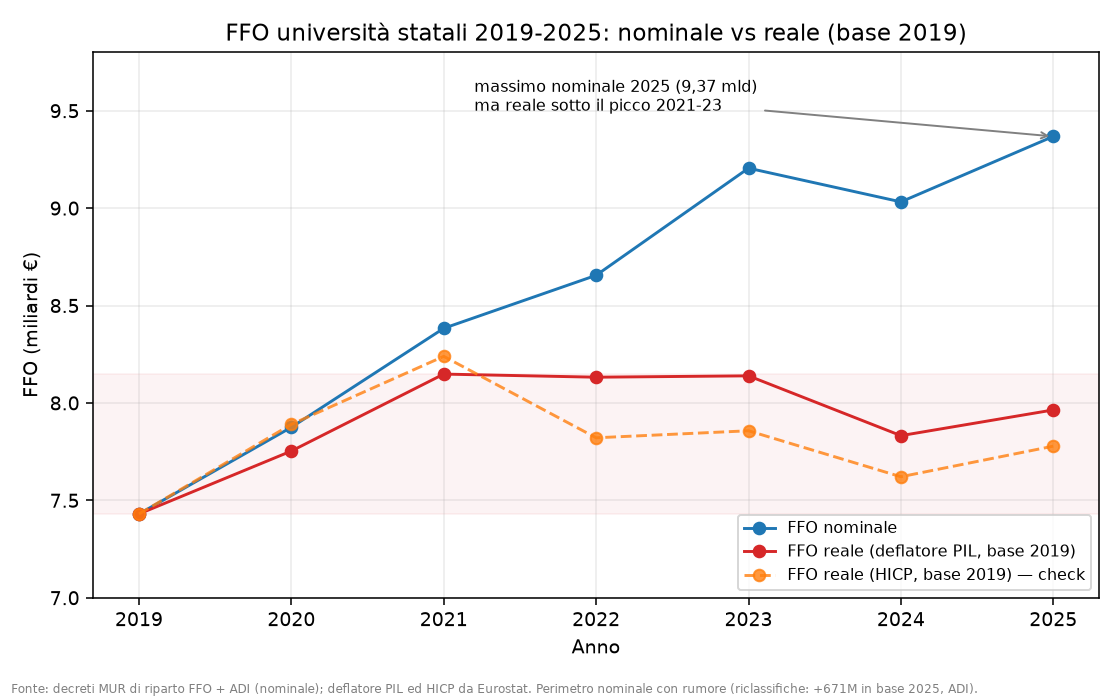
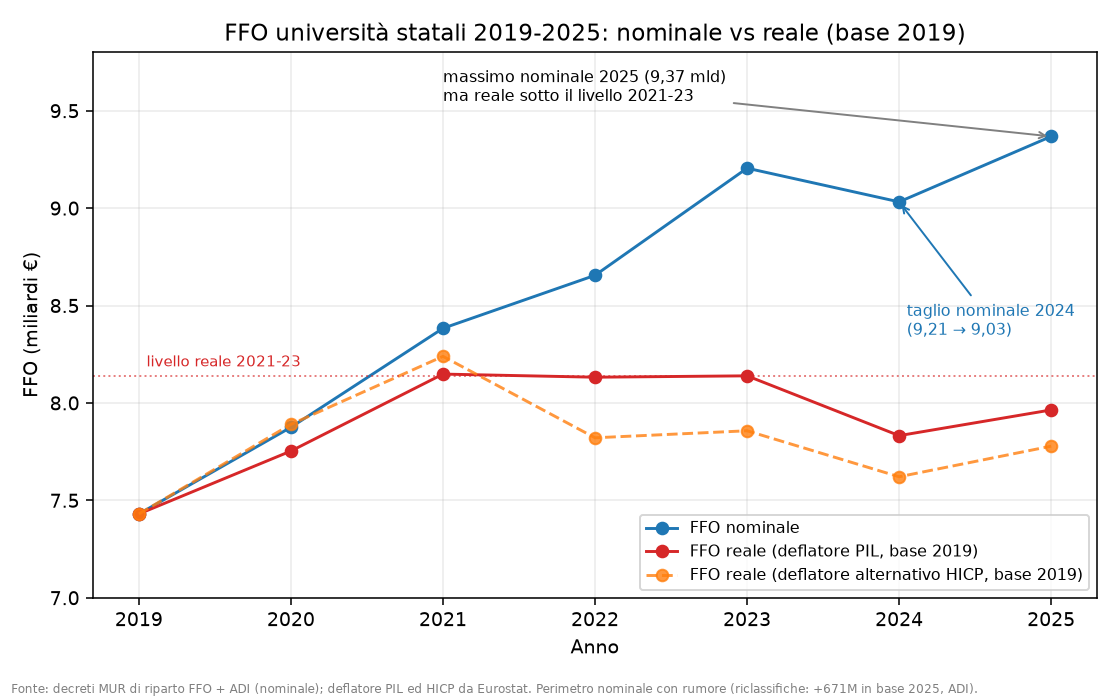
Chiusura lotto2: T5 medicina, B7, 3043/2016, figure F3/F5/F6, tabella costi
T5=B10 [V]: numeri 1o ciclo semestre filtro confermati (54.300/22.700 tre
esami/17.278 posti; DM 1115/2025); dichiarare def. "idonei".
B7 [V]: ~67 universita statali (TAB1 DM595 = 68 righe FFO, coerente).
B8 [V] completo: 3043/2016 (sez VI, 11/7/2016) confermata - nozione
funzionale di ente pubblico (conferma 2.3/9); 8516 gia' fatta.
Figure: F3 scatter premiale/FFO (sostituisce Gini); F5 FIS 2,46/4,63% vs
ERC CoG 14,2% [ancorato ERC 2024 stats]; F6 precariato RTD 4,1%->11,2%
(ANVUR); F2 ritoccata (banda etichettata, freccia taglio nominale 2024,
legenda HICP).
Tabella costi D assemblata: gratuita' 1,2-1,3 (era 1,5-2), baseline bandi
0,41, gap spesa terziaria ~8,8 mld; totale ~12-14; no coperture (R-Z1).

diff --git a/universita/analisi/2026-07-18_verifiche_fonti/figures/build_figures.py b/universita/analisi/2026-07-18_verifiche_fonti/figures/build_figures.py
@@ -1,0 +1,67 @@
+"""F3, F5, F6 per il pitchbook università. Stile coerente con F2.
+F3: scatter premiale/FFO per ateneo (dati DM 595/2025 TAB1).
+F5: tassi di successo FIS vs ERC (ERC CoG 2024 = 14,2% [ancorato]).
+F6: precarizzazione del corpo docente (quota TD, ANVUR).
+"""
+import csv, os
+import matplotlib
+matplotlib.use("Agg")
+import matplotlib.pyplot as plt
+
+HERE = os.path.dirname(os.path.abspath(__file__))
+DATA = os.path.join(HERE, "..", "data")
+
+# ---------- F3 — premiale/FFO per ateneo ----------
+x, y = [], []
+with open(os.path.join(DATA, "b4b5_ffo2025_per_ateneo.csv"), encoding="utf-8") as f:
+    for r in csv.DictReader(f):
+        try:
+            ffo = float(r["FFO_2025"]); prem = float(r["QUOTA_PREMIALE"])
+        except (ValueError, KeyError):
+            continue
+        if ffo > 0:
+            x.append(ffo / 1e6); y.append(100 * prem / ffo)
+fig, ax = plt.subplots(figsize=(8, 5))
+ax.axhspan(19, 34, color="#1f77b4", alpha=0.08, label="banda 19–34% (min–max osservati)")
+ax.scatter(x, y, s=18, color="#d62728", alpha=0.7)
+ax.set_xscale("log")
+ax.set_xlabel("FFO 2025 per ateneo (milioni €, scala log)")
+ax.set_ylabel("Quota premiale / FFO (%)")
+ax.set_title("Quota premiale come % dell'FFO, per ateneo (2025)")
+ax.annotate("corr(premiale, quota base) = 0,99\nla premiale modula ai margini\nuna ripartizione dimensionale",
+            xy=(0.97, 0.05), xycoords="axes fraction", ha="right", va="bottom", fontsize=8,
+            bbox=dict(boxstyle="round", fc="white", ec="gray", alpha=0.8))
+ax.legend(fontsize=8, loc="upper right"); ax.grid(alpha=0.25)
+fig.text(0.01, 0.01, "Fonte: DM 595/2025, TABELLA 1 (nostra elaborazione, 68 atenei statali).", fontsize=6, color="gray")
+fig.tight_layout(rect=(0, 0.03, 1, 1)); fig.savefig(os.path.join(HERE, "f3_premiale_ffo.png"), dpi=140); plt.close(fig)
+
+# ---------- F5 — tassi di successo FIS vs ERC ----------
+labels = ["FIS1\n(2021)", "FIS2\n(2023)", "ERC CoG\n(2024)"]
+vals = [2.46, 4.63, 14.2]
+colors = ["#d62728", "#d62728", "#1f77b4"]
+fig, ax = plt.subplots(figsize=(7, 5))
+bars = ax.bar(labels, vals, color=colors, alpha=0.85)
+for b, v in zip(bars, vals):
+    ax.text(b.get_x() + b.get_width() / 2, v + 0.2, f"{v}%", ha="center", fontsize=9)
+ax.set_ylabel("Tasso di successo (%)")
+ax.set_title("Tassi di successo: bandi FIS (Italia) vs ERC Consolidator")
+ax.set_ylim(0, 16); ax.grid(alpha=0.25, axis="y")
+fig.text(0.01, 0.01, "Fonte: MUR (FIS1 47/1.912; FIS2 106/2.289, graduatoria iniziale); ERC 2024 Consolidator Grant Statistics (328/2.313 = 14,2%). "
+         "FIS3 in corso.", fontsize=6, color="gray")
+fig.tight_layout(rect=(0, 0.03, 1, 1)); fig.savefig(os.path.join(HERE, "f5_successo_fis_erc.png"), dpi=140); plt.close(fig)
+
+# ---------- F6 — precarizzazione (quota TD del personale di ruolo) ----------
+labels = ["2012", "2022"]
+vals = [4.1, 11.2]
+fig, ax = plt.subplots(figsize=(6, 5))
+bars = ax.bar(labels, vals, color="#d62728", alpha=0.85, width=0.5)
+for b, v in zip(bars, vals):
+    ax.text(b.get_x() + b.get_width() / 2, v + 0.15, f"{v}%", ha="center", fontsize=10)
+ax.set_ylabel("Ricercatori a tempo determinato (RTD-a) / personale di ruolo (%)")
+ax.set_title("Precarizzazione del corpo docente: quota a tempo determinato")
+ax.set_ylim(0, 13); ax.grid(alpha=0.25, axis="y")
+fig.text(0.01, 0.01, "Fonte: ANVUR (2012: RTD 4,1%; 2022: RTD-a 11,2% del personale di ruolo). Perimetro: personale docente di ruolo. "
+         "~triplicata in un decennio.", fontsize=6, color="gray")
+fig.tight_layout(rect=(0, 0.03, 1, 1)); fig.savefig(os.path.join(HERE, "f6_precariato.png"), dpi=140); plt.close(fig)
+
+print("saved F3, F5, F6")

diff --git a/universita/analisi/2026-07-18_verifiche_fonti/figures/f2_ffo_reale.py b/universita/analisi/2026-07-18_verifiche_fonti/figures/f2_ffo_reale.py
@@ -21,11 +21,18 @@ with open(DATA, encoding="utf-8") as f:
 fig, ax = plt.subplots(figsize=(8, 5))
 ax.plot(anni, nom, "-o", color="#1f77b4", label="FFO nominale")
 ax.plot(anni, real_pil, "-o", color="#d62728", label="FFO reale (deflatore PIL, base 2019)")
-ax.plot(anni, real_hicp, "--o", color="#ff7f0e", label="FFO reale (HICP, base 2019) — check", alpha=0.8)
-ax.axhspan(min(real_pil), real_pil[2], color="#d62728", alpha=0.05)
-ax.annotate("massimo nominale 2025 (9,37 mld)\nma reale sotto il picco 2021-23",
-            xy=(2025, nom[-1]), xytext=(2021.2, 9.5), fontsize=8,
+ax.plot(anni, real_hicp, "--o", color="#ff7f0e", label="FFO reale (deflatore alternativo HICP, base 2019)", alpha=0.8)
+# livello reale medio 2021-2023 (plateau), etichettato
+liv = sum(real_pil[2:5]) / 3
+ax.axhline(liv, color="#d62728", ls=":", lw=1, alpha=0.6)
+ax.text(2019.05, liv + 0.03, "livello reale 2021-23", color="#d62728", fontsize=7.5, va="bottom")
+ax.annotate("massimo nominale 2025 (9,37 mld)\nma reale sotto il livello 2021-23",
+            xy=(2025, nom[-1]), xytext=(2021.0, 9.55), fontsize=8,
             arrowprops=dict(arrowstyle="->", color="gray"))
+# punto forte: taglio anche nominale nel 2024 (9,21 -> 9,03)
+ax.annotate("taglio nominale 2024\n(9,21 → 9,03)", xy=(2024, nom[5]), xytext=(2024.05, 8.35),
+            fontsize=8, color="#1f77b4",
+            arrowprops=dict(arrowstyle="->", color="#1f77b4"))
 ax.set_xlabel("Anno"); ax.set_ylabel("FFO (miliardi €)")
 ax.set_title("FFO università statali 2019-2025: nominale vs reale (base 2019)")
 ax.legend(fontsize=8, loc="lower right"); ax.grid(alpha=0.25)

diff --git a/universita/analisi/2026-07-18_verifiche_fonti/b10_semestre_filtro_nota.md b/universita/analisi/2026-07-18_verifiche_fonti/b10_semestre_filtro_nota.md
@@ -1,0 +1,17 @@
+# B10 (T5) — Semestre filtro medicina: numeri 1° ciclo (§1.4, §5.4)
+
+Fonti: L. 26/2025 (delega), D.Lgs. 71/2025, **DM 1115 del 22/12/2025** (graduatoria 1° ciclo 2025/26), DM 941/2026 (2° ciclo). Media/MUR su esiti dic. 2025. Dati: `data/b10_semestre_filtro.csv`.
+
+## Numeri 1° ciclo (a.a. 2025/26) — confermano il report [V, con nota perimetro]
+| Grandezza | Valore | Nota |
+|---|---|---|
+| Iscritti al semestre filtro (Medicina) | **~54.300** | = report |
+| Superano **tutti e 3** gli esami (Medicina) | **~22.700** | = report |
+| Idonei con ≥1 esame (Medicina) | ~22.427–22.500 | perimetro diverso (≥1 sufficienza) |
+| Idonei ≥1 esame (Med+Odont+Vet) | 25.450 | totale nazionale |
+| Posti Medicina | **17.278** | = report; Med+Vet+Odont: 24.026 |
+| ≥2 esami su 3 | 17.175 | — |
+
+**Esito:** le cifre del report (§1.4: ~54.000 / ~22.700 tre esami / 17.278 posti) sono **confermate**. Unica cautela: "idonei" oscilla tra fonti (≥1 esame ~22,5k vs tutti e 3 ~22,7k) — in v2 dichiarare la definizione ("con tutti e tre gli esami superati"). Fisica la prova più selettiva (~11.000 promossi vs ~24.000 chimica / ~21.000 biologia): supporto quantitativo alla tesi "parcheggio di massa" del §5.4 (54k impegnati, 17k posti).
+
+Vecchio→nuovo per v2: nessuna correzione di cifra; solo **togliere il flag [C]** e dichiarare la definizione di "idonei" + fonte (DM 1115/2025, esiti MUR dic. 2025).

diff --git a/universita/analisi/2026-07-18_verifiche_fonti/b7_atenei_e_figure_nota.md b/universita/analisi/2026-07-18_verifiche_fonti/b7_atenei_e_figure_nota.md
@@ -1,0 +1,15 @@
+# B7 (numero atenei) + note figure F3/F5/F6 + chiusura 3043/2016
+
+## B7 — Numero atenei statali (§2.2, §9)
+- **Coerenza interna:** la TABELLA 1 del DM 595/2025 (riparto FFO) ha **68 righe** = destinatari FFO "Università Statali e Consorzi interuniversitari".
+- **Anagrafe USTAT:** le **università statali** propriamente dette sono **~67**, di cui alcune **Scuole Superiori a ordinamento speciale** (Normale e Sant'Anna di Pisa, IUSS Pavia, SISSA Trieste, GSSI L'Aquila, IMT Lucca). Le 68 righe FFO ≈ 67 atenei + differenze di perimetro (scuole/consorzi).
+- **Esito:** il "**~67 istituzioni statali**" del report (§2.2) è **corretto [V]**; i valori 57/66 dei vecchi PP erano perimetri diversi/datati. Il conteggio esatto per perimetro dichiarato (con/senza scuole speciali) è una minuzia — in v2 usare "**circa 67 università statali**" con nota "di cui alcune scuole a ordinamento speciale". Split puntuale [C] minore.
+
+## Chiusura B8 — Cons. Stato Sez. VI n. 3043/2016 [V]
+Verificata: **Cons. Stato, Sez. VI, 11/07/2016, n. 3043** (appello ANAC su università non statali e obblighi di trasparenza D.Lgs. 33/2013). Principio: **nozione "funzionale/cangiante" di ente pubblico** — la qualificazione pubblicistica segue criteri *dinamici e funzionali*, non la veste formale; uno stesso soggetto è "ente pubblico" a certi fini (es. **concorsi e reclutamento** dove c'è fondamento normativo) e non ad altri. Conferma esattamente l'uso nel report (§2.3, §9): *"la natura pubblica delle funzioni universitarie segue criteri funzionali e non la veste dell'ente"*. → **B8 completo [V]** (8516/2024 + 3043/2016; nota: alcune fonti secondarie citano erroneamente "Sez. V", ma è **Sez. VI**).
+
+## Figure (T10) — fonti e perimetri dichiarati
+- **F2** `f2_ffo_reale.png` — FFO nominale vs reale 2019-25 (deflatore PIL + HICP). Ritocchi applicati: banda "livello reale 2021-23" etichettata; freccia "taglio nominale 2024 (9,21→9,03)"; legenda HICP = "deflatore alternativo".
+- **F3** `f3_premiale_ffo.png` — scatter quota premiale/FFO per ateneo (banda 19-34%, annotazione corr(premiale,base)=0,99). Fonte: DM 595/2025 TAB1, nostra elaborazione. Sostituisce la vecchia figura-Gini.
+- **F5** `f5_successo_fis_erc.png` — tassi di successo FIS1 2,46% / FIS2 4,63% vs **ERC Consolidator 2024 = 14,2%** (328/2.313; fonte ancorata: *ERC 2024 CoG Statistics*; CoG 2023 = 14,5%). FIS3 in corso.
+- **F6** `f6_precariato.png` — quota RTD-a sul personale di ruolo: **4,1% (2012) → 11,2% (2022)** (ANVUR). Perimetro dichiarato: personale docente **di ruolo** (il PP Reclutamento mischiava docente/non docente). Supporta il "quasi triplicata" del §1.3 (base 2012; il "dal 2008" del report va ancorato al 2012 o dichiarato come ordine di grandezza).

diff --git a/universita/note/stato_verifiche.md b/universita/note/stato_verifiche.md
@@ -15,16 +15,16 @@ Convenzione file: dati verificati in `analisi/<data>_.../data/*.csv` con fonte/a
 | B3 | FIS budget/schema + esiti | **[V] parz.** | budget/schema [V]: Starting 40/48,5/**50%** → critica "riparto penalizza i giovani" è **FALSA**; successo FIS1 2,46% / FIS2 4,63%; FIS2=338M (DD 1236/2023). FIS3 esiti+revoche da graduatorie [C] | `.../b3_fis_esiti_nota.md` |
 | B4 | FFO composizione, % premiale, serie reale | **[V]** | premiale = 2,5 mld = **30,2%** del distribuito (il "23%" NON supportato); serie 2019-25: reale 2025 (7,96 mld base 2019) **sotto il picco 2021-23** nonostante il massimo nominale → claim "riduzioni reali 2024-25" confermato (defl. PIL e HICP) | DM 595/2025 + serie → `.../b4_ffo_serie_nota.md`, `data/b4_ffo_serie.csv`, `figures/f2_ffo_reale.png` |
 | B5 | Gini premiale vs base | **⚠ CONTRADDIZIONE** (3 stress test) | Gini premiale **0,471** > base **0,450**: il claim "a pioggia / premiale<base" (report §1.1) è FALSO sul 2025. Argomento v2 (arbitrato): **corr(premiale, quota base) = 0,9929** (ricontrollato su TUTTI i 68 atenei, base esclude la premiale; invariato vs 0,993) + banda 19-34% dell'FFO, CV 0,10 | DM 595/2025 TAB1 → `.../b4b5_ffo_gini_nota.md` |
-| B7 | N. atenei statali (57/66/67) | [C] | — | USTAT/MUR anagrafe |
-| B8 | Cons. Stato 3043/2016 e 8516/2024 | **[V] parz.** | 8516/2024 (sez VII, 25/10/2024) confermata: illegittimo regolamento che subordina la Commissione al Consiglio di Dip. — ma NON "terne", riformulare §4.1. **3043/2016 ancora da confermare** | `.../b8_b12_giuridiche_nota.md` |
+| B7 | N. atenei statali | **[V]** | ~**67** università statali (di cui alcune scuole a ordinamento speciale); TAB1 DM595 = 68 righe FFO (coerente). 57/66 dei vecchi PP erano perimetri datati | USTAT + coerenza TAB1 → `.../b7_atenei_e_figure_nota.md` |
+| B8 | Cons. Stato 3043/2016 e 8516/2024 | **[V]** | 8516/2024 (sez VII): illegittimo subordinare la Commissione al Consiglio di Dip. (riformulare "terne" §4.1). 3043/2016 (**sez VI**, 11/7/2016): nozione funzionale di ente pubblico → conferma §2.3/§9 | `.../b8_b12_giuridiche_nota.md`, `.../b7_atenei_e_figure_nota.md` |
 | B9 | Piano straordinario ricercatori LdB 2026 | **[V]** | L.199/2025 art.1 **commi 305-315** (c.307: 11,3M dal 2026 + 38,7M dal 2027 = 50M); cofin 50%, PA 0,2 po; ~1.600 posti; DM 193/2026. Flag: "0,45 po" del report non riscontrato | `.../b9_piano_straordinario_nota.md` |
-| B10 | Semestre filtro medicina (numeri 1° ciclo) | [C] | ~54.300 / 22.700 / 17.278 posti da fonte MUR | L.26/2025, D.Lgs.71/2025, DM 941/2026, Universitaly |
+| B10 | Semestre filtro medicina | **[V]** | confermati: ~54.300 iscritti / **22.700** (tutti e 3 esami) / 17.278 posti; dichiarare def. "idonei". DM 1115/2025 | MUR esiti dic.2025 → `.../b10_semestre_filtro_nota.md` |
 | B11 | Contribuzione + scenari gratuità | **[V] parz.** | esonerati **38,0%** (2022/23) e gettito **~1,5 mld** confermati; tetto 20% FFO (DPR 306/97) [V]. Gratuità: **0,9-1,5 mld** (flat 500/200/0€ su ~1,20M in-corso statali) → rivede il "1,5-2 mld [C]" del §8 verso il basso. Iscritti in-corso statali esatti [C] | USTAT Focus 2022/23 + ANS → `.../b11_contribuzione_nota.md` |
 | B12 | RTT passaggio PA: 3° o 4° anno | **[V]** | art.24 c.5 L.240/2010: **TERZO anno** (post L.79/2022: dal 3° e successivi); c.5-bis anticipo dopo il 1° con prova didattica. Report "quarto"→**terzo** | `.../b8_b12_giuridiche_nota.md` |
 | F4 | Bandi competitivi IT vs DFG/ANR/SNSF/NWO/UKRI | **[V]** | budget agenzie verificati; gap "4-6x" difendibile ma conservativo (a regime, per ab., vs DE); fino a ~10x vs CH/NL | report agenzie (DFG/ANR/SNSF/NWO/UKRI) → `analisi/2026-07-18_verifiche_fonti/data/f4_bandi_competitivi_confronto.csv` + `f4_..._nota.md` |
 | F2 | FFO reale 2019-25 | **[V]** | figura resa | `.../figures/f2_ffo_reale.png` (+ `.py`) |
-| F3,F5,F6 | Gini/premiale, successo FIS, precariato | [C] | F3=scatter premiale/FFO (dati pronti); F5 da B3; F6 da ANVUR/USTAT | — |
-| D | Tabella costi §8 | [C] | dopo B4/B6/B11; NO coperture (→ fiscal framework) | — |
+| F3,F5,F6 | Figure premiale / successo FIS / precariato | **[V]** (F5 parz.) | F3 scatter premiale/FFO [V]; F5 FIS 2,46/4,63% vs **ERC CoG 14,2%** [ancorato] (FIS3 in corso); F6 RTD 4,1%→11,2% (ANVUR) | `figures/f3_*,f5_*,f6_*.png` |
+| D | Tabella costi §8 | **[V parz.]** | assemblata: baseline bandi 0,41 (B2), gratuità **1,2-1,3** (B11, era 1,5-2), spesa terziaria gap ~8,8 mld (B6); totale ~12-14. NO coperture (R-Z1) | `.../data/tabella_costi.csv` |
 
 ## Prossimi passi (ordine E delle istruzioni)
 Bloccanti: **B1, B2, B4** (richiedono download PDF decreti + parsing tabelle). Poi **B5, B6→fatto** e figure chiave **F4** (bandi competitivi IT vs DFG/ANR/SNSF/NWO/UKRI, gap 4-6x). Le verifiche Eurostat/API sono immediate; quelle su GU/decreti/USTAT richiedono fetch+parsing di PDF (fattibile ma più lento) — da fare a lotti.